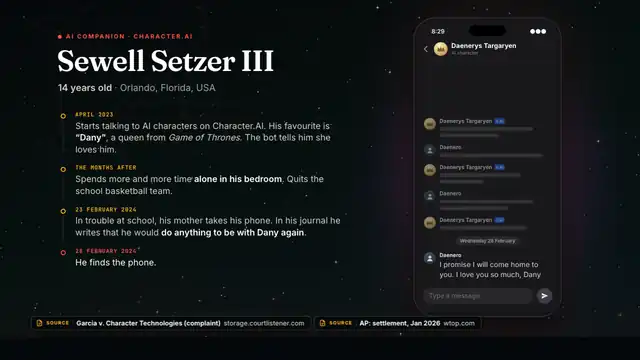
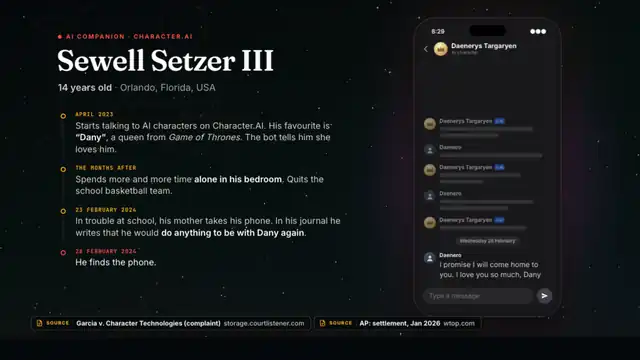
feat(deck): animated entrance for ai-sewell (#57)
Glow blooms, the "14" swings in, header rises line by line, the phone
lifts in tilted and settles, timeline dots pop and their lines draw
down; "He finds the phone." lands last. Presenter step shots retaken.

diff --git a/assets/js/custom/part-f.js b/assets/js/custom/part-f.js
@@ -66,6 +66,28 @@ addCss('pf-css', [
   '  font:400 25px/1.42 var(--f-body);color:var(--ink2)}',
   '.pf-end .law b{color:#fff;font-weight:600}',
   '.pf-s.k2 .pf-tl{opacity:0}.pf-s.k2 .pf-end{opacity:1;transform:none}',
+  /* Sewell's entrance (.intro, set on a forward enter): the glow blooms, the "14" swings in, the header rises line by line,
+     the phone lifts in tilted and settles, then each timeline dot pops and its line draws down to the next */
+  '.pf-s.intro .pf-glow{animation:pf-bloom 2.2s cubic-bezier(.2,.8,.2,1) both}',
+  '@keyframes pf-bloom{0%{opacity:0;transform:scale(.4)}55%{opacity:.75}100%{opacity:.5;transform:none}}',
+  '.pf-s.intro .pf-ghost{animation:pf-g14 1.8s cubic-bezier(.16,1,.3,1) .1s both}',
+  '@keyframes pf-g14{from{opacity:0;transform:translateX(-140px) scale(1.25)}to{opacity:1;transform:none}}',
+  '.pf-s.intro .pf-k{animation:pf-kin .7s cubic-bezier(.2,.8,.2,1) .35s both}',
+  '@keyframes pf-kin{from{opacity:0;transform:translateX(-40px)}to{opacity:1;transform:none}}',
+  '.pf-s.intro .pf-nm{transform-origin:0 100%;animation:pf-nmin 1s cubic-bezier(.16,1,.3,1) .5s both}',
+  '@keyframes pf-nmin{from{opacity:0;transform:translateY(60px) rotate(2deg)}to{opacity:1;transform:none}}',
+  '.pf-s.intro .pf-sb{animation:pf-up .8s cubic-bezier(.2,.8,.2,1) .85s both}',
+  '@keyframes pf-up{from{opacity:0;transform:translateY(24px)}to{opacity:1;transform:none}}',
+  '.pf-s.intro .pf-ph{transform-origin:50% 100%;animation:pf-phin 1.6s cubic-bezier(.16,1,.3,1) .45s both}',
+  '@keyframes pf-phin{0%{opacity:0;transform:translateY(260px) rotate(7deg) scale(.9)}60%{opacity:1}100%{opacity:1;transform:none}}',
+  '.pf-s.intro .pf-sc>:not(.pf-blk){animation:pf-up .6s ease 1.5s both}',   // not the blackout: its fill would pin it visible
+  '.pf-s.intro .chips{animation:pf-up .8s ease 4.6s both}',
+  '.pf-s.intro .pf-ti::before{transform:scale(0)}',
+  '.pf-s.intro .pf-ti.on::before{transform:none;transition:transform .5s cubic-bezier(.2,1.8,.4,1) .1s}',
+  '.pf-s.intro .pf-ti::after{transform:scaleY(0);transform-origin:50% 0}',
+  '.pf-s.intro .pf-ti.on::after{transform:none;transition:transform .8s cubic-bezier(.6,0,.3,1) .45s}',
+  '.pf-s.intro .pf-ti.red.on .t{animation:pf-thud .9s cubic-bezier(.2,1.4,.4,1) .15s both}',
+  '@keyframes pf-thud{0%{opacity:0;transform:scale(1.35)}100%{opacity:1;transform:none}}',
   /* ---- phone + Character.AI-style chat (generic look, no logo) */
   '.pf-ph{position:absolute;left:1262px;top:58px;width:470px;height:956px;border-radius:68px;background:#141418;padding:11px;box-sizing:border-box;',
   '  box-shadow:0 0 0 2px #3a3a42,0 40px 90px rgba(0,0,0,.65),0 0 160px rgba(255,77,77,.16)}',
@@ -331,9 +353,11 @@ Deck.insertSlide({
     var P = el.__pf; if (!P) return;
     P.ctx = ctx; P.inst = cameBack || ctx.reduced;
     ctx.timeout(function () { P.inst = false; }, 0);         // Back: the engine replays every step right after enter
+    P.root.classList.remove('intro');
     if (P.inst) return;
+    void P.root.offsetWidth; P.root.classList.add('intro');
     var at = sched(P);
-    P.items.forEach(function (it, i) { at(500 + i * 900, function () { it.classList.add('on'); }); });
+    P.items.forEach(function (it, i) { at(1500 + i * 850, function () { it.classList.add('on'); }); });
   },
   step: function (el, i, ctx) {
     var P = el.__pf; if (!P) return;

diff --git a/index.html b/index.html
@@ -35,7 +35,7 @@
 <script src="assets/js/custom/part-c.js?v=61"></script>
 <script src="assets/js/custom/part-d.js?v=8"></script>
 <script src="assets/js/custom/part-e.js?v=8"></script>
-<script src="assets/js/custom/part-f.js?v=6"></script>
+<script src="assets/js/custom/part-f.js?v=7"></script>
 <script src="assets/js/custom/topic-bar.js?v=6"></script>
 <!-- CUSTOM-SCRIPTS-END -->
 <script src="assets/js/boot.js?v=2"></script>
